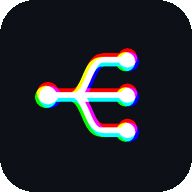
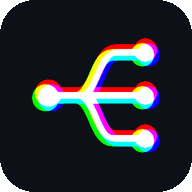
Add files via upload

Changed region(s): [[0.1562, 0.1875, 0.8438, 0.8125]]

diff --git a/index.html b/index.html
@@ -161,7 +161,7 @@ const image DS_TIMBRE[] = {
 const string DS_N1 = "1"; const string DS_N2 = "2";
 const string DS_N3 = "3"; const string DS_N4 = "4";
 const string DS_TITULO    = "D-Sig";
-const string DS_VERSAO    = "D-Sig 1.0.18";
+const string DS_VERSAO    = "D-Sig 1.0.19";
 const string DS_NOVO      = "[+] NOVA";
 const string DS_RAM       = "[RAM]";
 const string DS_EEP       = "[EEP]";
@@ -6004,6 +6004,36 @@ function chk(v,cb){var b=document.createElement('button');b.className='btn sm';
 // voltava ao topo da pagina a cada campo alterado. Se a tela e a mesma, o foco volta ao
 // controle que ocupa a mesma posicao — e so se ele for do mesmo tipo, para nao pousar em
 // outro campo quando a alteracao acrescentou ou tirou linhas acima.
+// 1.0.19: O VOLTAR DO SISTEMA. A navegacao do app era so uma variavel (tela) e nunca
+// entrava no historico do navegador: para o Android havia UMA pagina, e o gesto ou o
+// botao de voltar saia dela — fechava o app, de qualquer tela. Agora cada nivel de tela
+// e uma entrada do historico:
+//     0  lista de jogos        1  jogo / exportar / informacoes        2  MOD / codigo
+// O render() mantem o historico na profundidade da tela (empurra ao descer, recua ao
+// subir pelo "‹" do app), e o voltar do sistema chega como popstate e sobe um nivel.
+// Na lista de jogos nao ha entrada para voltar: ali o voltar fecha o app, como deve.
+// HIST e a profundidade que o historico tem; _histEsp conta os recuos pedidos por nos,
+// cujo popstate nao e um voltar do usuario. Enquanto ha um recuo em curso nada e
+// empurrado — history.go() e assincrono, e empurrar no meio dele pousaria no lugar errado.
+var HIST=0, _histEsp=0;
+function profTela(){return tela==='cat'?0:(tela==='mod'||tela==='cod')?2:1}
+function sobeTela(){tela=(tela==='mod'||tela==='cod')?'jogo':'cat';modo=''}
+function histSync(){
+  if(_histEsp)return;
+  var p=profTela();
+  try{
+    while(HIST<p){HIST++;history.pushState({d:HIST},'')}
+    if(HIST>p){var n=HIST-p;HIST=p;_histEsp++;history.go(-n)}
+  }catch(e){}}
+try{HIST=(history.state&&typeof history.state.d==='number')?history.state.d:0;
+  if(!HIST)history.replaceState({d:0},'')}catch(e){}
+window.addEventListener('popstate',function(ev){
+  var d=(ev.state&&typeof ev.state.d==='number')?ev.state.d:0;
+  HIST=d;
+  if(_histEsp){_histEsp--;histSync();return}     // recuo nosso: so acerta a conta
+  if(d>profTela()){histSync();return}            // "avancar": a tela de la nao existe mais
+  while(profTela()>d)sobeTela();
+  render()});
 var FOCAVEL='select,input,textarea,button';
 var _telaAnt='';
 function render(){
@@ -6019,6 +6049,7 @@ function render(){
   else if(tela==='cod')telaCod(A);
   else if(tela==='dados')telaDados(A);
   else if(tela==='info')telaInfo(A);
+  histSync();
   if(pos>=0){var novo=A.querySelectorAll(FOCAVEL)[pos];
     if(novo&&novo.tagName===tag&&!novo.disabled){
       try{novo.focus({preventScroll:true})}catch(e){novo.focus()}}}

diff --git a/sw.js b/sw.js
@@ -7,7 +7,7 @@
 // A contagem recomecou em v1 com o nome final do projeto. O 'activate' apaga todo
 // cache cujo nome seja diferente deste, entao o cache da versao anterior e descartado
 // sozinho na primeira abertura — nada a limpar a mao.
-const CACHE = 'dsig-1.0.18';
+const CACHE = 'dsig-1.0.19';
 
 // Separados de proposito: sem o index e o manifest o app nao abre; sem os icones ele
 // abre normalmente. Um icone faltando nao pode impedir a instalacao inteira, que era

diff --git a/LEIAME.md b/LEIAME.md
@@ -661,7 +661,7 @@ comentário não conta, porque não altera o publicado.
 O **script**, o **layout de bits** e o **cache do app** têm numeração
 separada.
 
-O script está na **1.0.18**; o `LAYOUT_VER` está em **6** desde que as
+O script está na **1.0.19**; o `LAYOUT_VER` está em **6** desde que as
 SPVARs 61-63 deixaram de guardar o MOD 21 e passaram a guardar a
 permutação. Incremente o `LAYOUT_VER` apenas quando um campo mudar de
 posição ou tamanho — e, ao fazer isso, atualize o app junto. App e
@@ -1022,6 +1022,31 @@ delete, 2 na troca), e a dos nomes ganhou os casos de acento, de `/*` e de anota
 global reescrita por uma chamada, ou estado por slot esquecido numa cópia. O TURBO, que é
 a parte mais intrincada, bateu com um modelo independente em 160 configurações
 aleatórias de 160.
+
+### 1.0.19 — o voltar do Android e o ícone (15/11/2026)
+
+**O script não mudou**, só o `DS_VERSAO`, pela regra do `sw.js`.
+
+**O voltar do sistema fechava o app, de qualquer tela.** A navegação era uma variável
+(`tela`) e nunca entrava no histórico do navegador: para o Android havia uma página só, e
+voltar saía dela. Agora cada nível de tela é uma entrada do histórico — lista de jogos (0),
+jogo / exportar / informações (1), MOD / código (2). O `render()` mantém o histórico na
+profundidade da tela, e o voltar do sistema sobe um nível, igual ao `‹` do app. Na lista
+de jogos continua fechando, que é o certo. Conferido no Chromium, não num Android: descer
+até um MOD e voltar três vezes passa por MOD → jogo → lista; alternar entre o `‹` e o
+voltar do sistema não deixa entrada sobrando.
+
+**O desenho do ícone cresceu 22%** e foi centrado (estava 24 px à esquerda). No maskable —
+o que o Android põe na tela inicial — o desenho ia a 32% do lado e foi a 45%; a tinta
+chega a 29% do centro, com a zona segura em 40%, e o `icone.py` reprova se passar. O
+deslocamento dos três canais cresceu **na mesma proporção** do traço: é a razão entre os
+dois que faz o prisma, e crescer só o traço afinaria a franja colorida.
+
+O gerador deixou de ler o traço do ícone publicado. O branco do ícone é a *interseção* das
+três cópias, mais fina que o traço — cada geração a partir da anterior afinava o desenho,
+e um aumento se aplicaria de novo a cada rodada. O traço original está agora em
+`ferramentas/oled/traco.png`, recuperado do canal vermelho do ícone da 1.0.17 e conferido:
+com `ESCALA = 1` ele devolve aquele ícone pixel a pixel.
 
 ### O que continua em aberto, e não impede nada
 

diff --git a/README.md b/README.md
@@ -101,8 +101,9 @@ palavras** — 60 para os 20 MODs, 3 para a permutação, 1 para o selo.
 
 ## Estado
 
-**Versão 1.0.18.** Corrige quatro defeitos de comportamento achados numa auditoria feita
-só no simulador — a lista está no [`LEIAME.md`](LEIAME.md). **Esta versão ainda não passou
+**Versão 1.0.19.** O script é o da 1.0.18, que corrige quatro defeitos de comportamento
+achados numa auditoria feita só no simulador — a lista está no [`LEIAME.md`](LEIAME.md); a
+1.0.19 mexe só no app (o voltar do Android e o ícone). **O script ainda não passou
 pelo compilador do Zen Studio nem pelo aparelho**: antes de confiar nela, faça o Build e
 confira 0 erros e 0 avisos.
 
